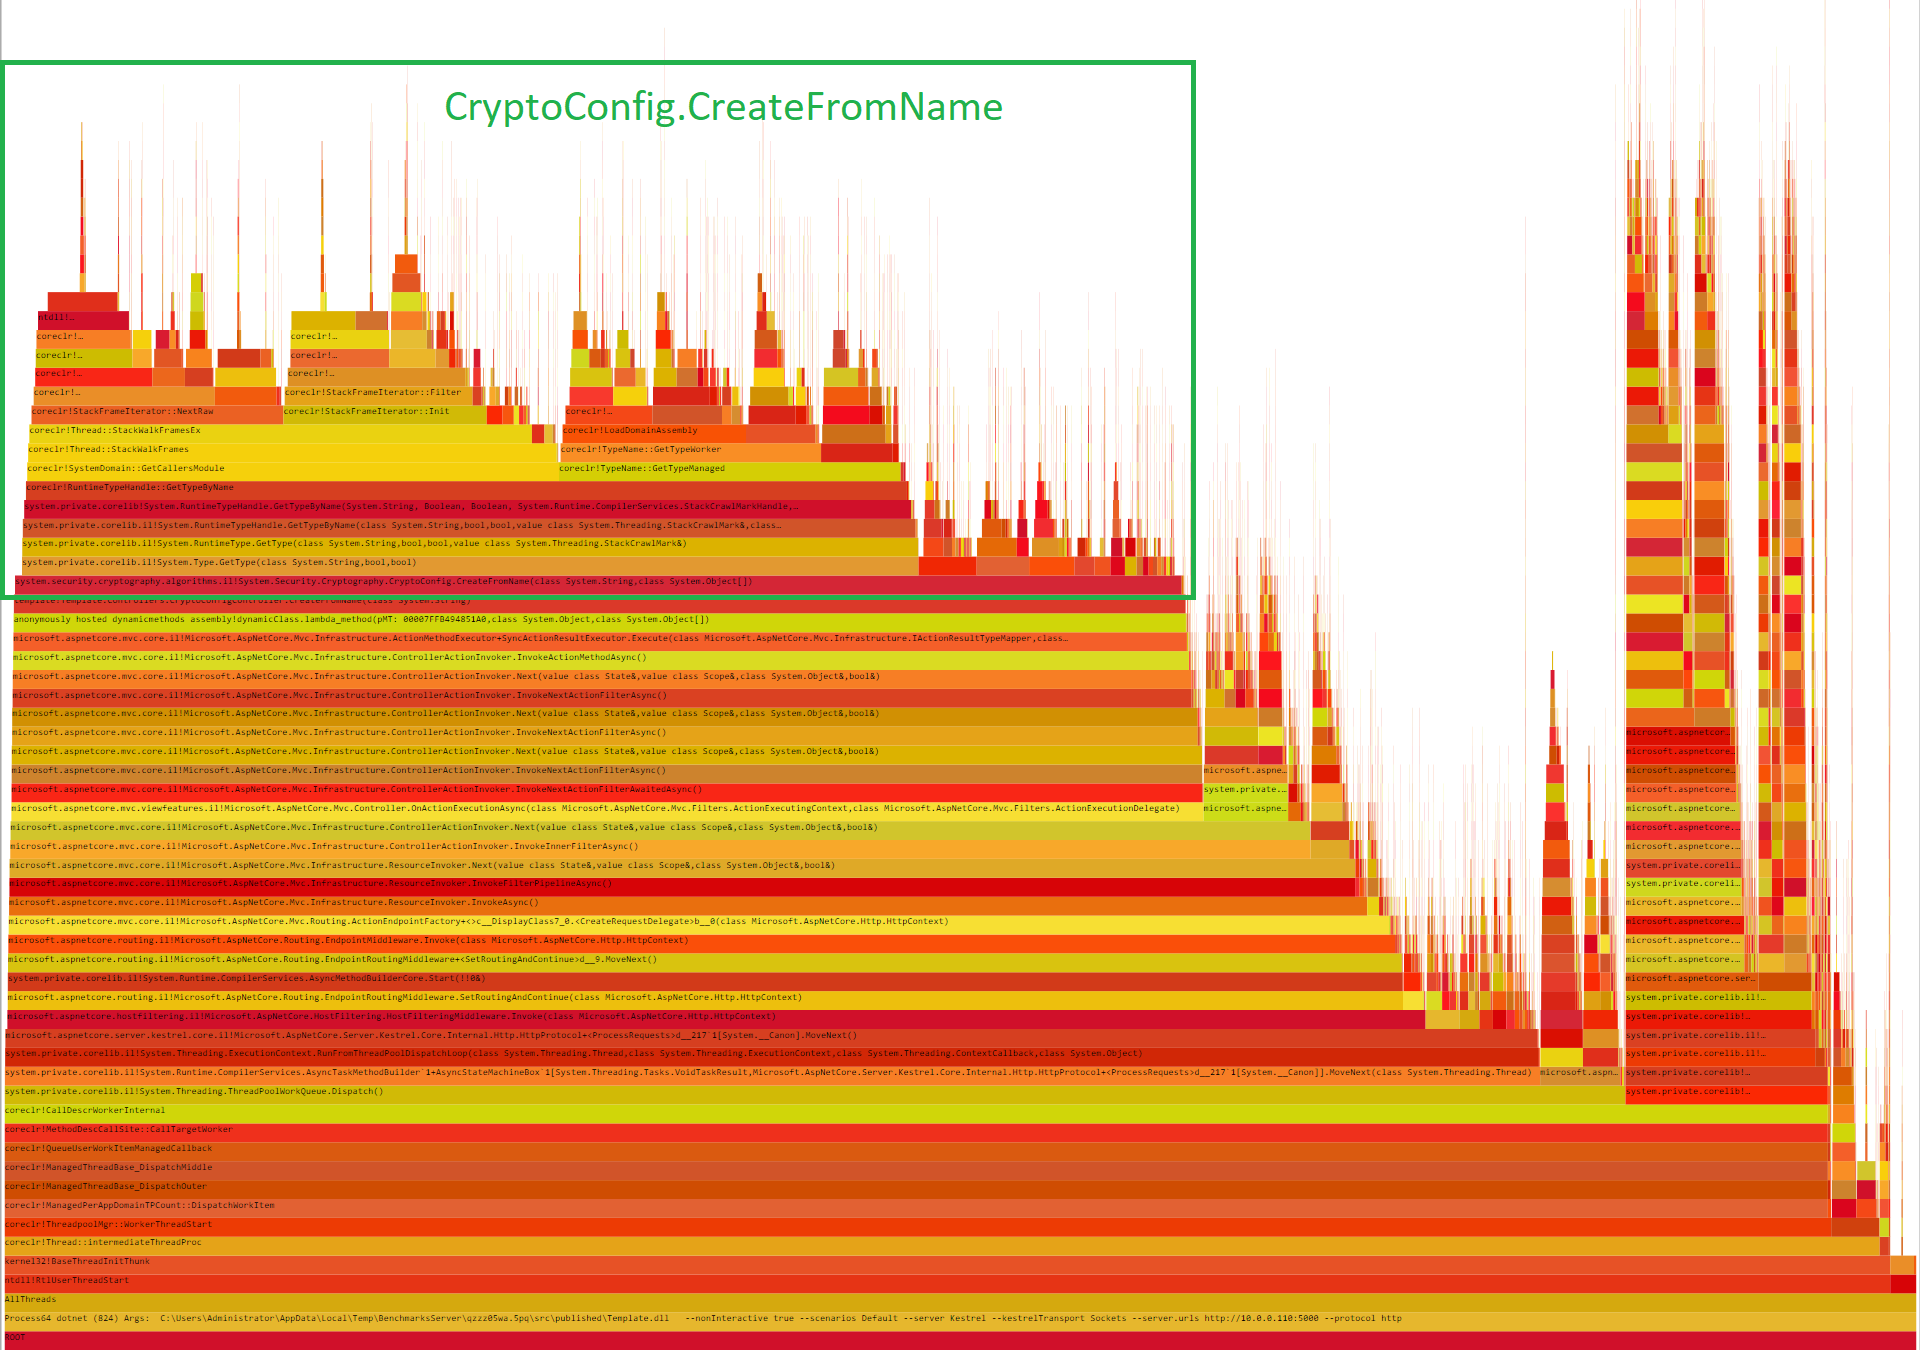
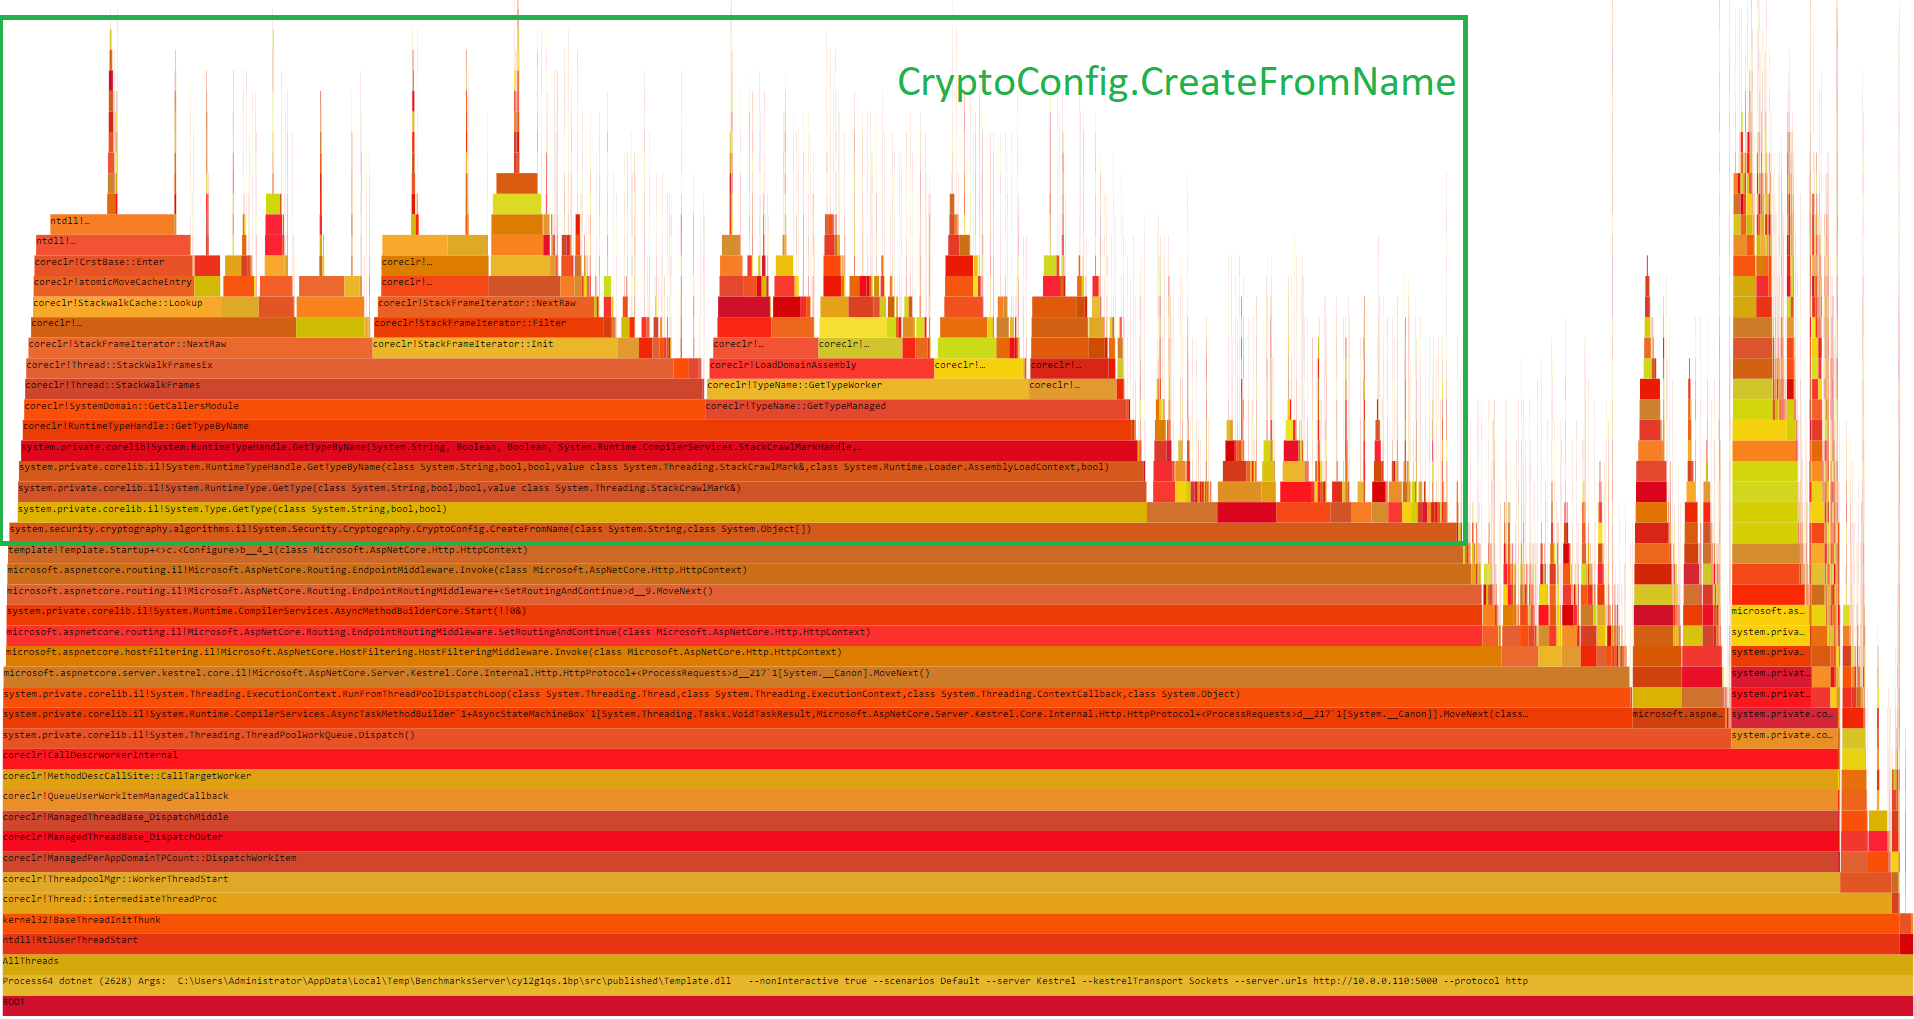
use Middleware instead of more expensive MVC Controllers

diff --git a/src/BenchmarksApps/Samples/Template/Startup.cs b/src/BenchmarksApps/Samples/Template/Startup.cs
@@ -1,41 +1,46 @@
-using Microsoft.AspNetCore.Builder;
+using System;
+using System.Collections.Generic;
+using System.Runtime.CompilerServices;
+using System.Threading.Tasks;
+using Microsoft.AspNetCore.Builder;
 using Microsoft.AspNetCore.Hosting;
+using Microsoft.AspNetCore.Routing;
 using Microsoft.Extensions.Configuration;
-using Microsoft.Extensions.DependencyInjection;
-using Microsoft.Extensions.Hosting;
 
 namespace Template
 {
     public class Startup
     {
-        public Startup(IConfiguration configuration)
-        {
-            Configuration = configuration;
-        }
+        public Startup(IConfiguration configuration) => Configuration = configuration;
 
         public IConfiguration Configuration { get; }
-
-        // This method gets called by the runtime. Use this method to add services to the container.
-        public void ConfigureServices(IServiceCollection services)
-        {
-            services.AddControllers()
-                ;
-        }
 
         // This method gets called by the runtime. Use this method to configure the HTTP request pipeline.
         public void Configure(IApplicationBuilder app, IWebHostEnvironment env)
         {
-            if (env.IsDevelopment())
-            {
-                app.UseDeveloperExceptionPage();
-            }
-
             app.UseRouting();
 
-            app.UseEndpoints(endpoints =>
+            app.UseEndpoints(routeBuilder =>
             {
-                endpoints.MapControllers();
+                routeBuilder.Map("InvariantCultureIgnoreCase/{count}", context =>
+                {
+                    int count = int.Parse((string)context.GetRouteValue("count"));
+
+                    var data = new Dictionary<string, int>(StringComparer.InvariantCultureIgnoreCase);
+                    for (var i = 0; i < count; i++)
+                    {
+                        data.TryAdd("Id_", i);
+                    }
+
+                    Consume(data);
+
+                    return Task.CompletedTask;
+                });
             });
         }
+
+        // avoid possible dead code elimination
+        [MethodImpl(MethodImplOptions.NoInlining)]
+        private static void Consume<T>(in T _) { }
     }
 }

diff --git a/src/BenchmarksApps/Samples/Template/README.md b/src/BenchmarksApps/Samples/Template/README.md
@@ -7,7 +7,7 @@ The goal is to make it very easy to reuse this template app to quickly modify it
 ## Usage
 
 1. Clone this repo.
-2. Extend the template project with a new `Controller` and a method that you want to test.
+2. Modify the template project: replace [existing route](./Startup.cs#L25) with a method that you want to test.
 3. Use [BenchmarksDriver](../../../BenchmarksDriver/README.md) to run the benchmark.
 
 ## Sample investigation
@@ -36,35 +36,49 @@ explorer benchmarks.sln
 
 ### Modify the template
 
-The next step is to extend this template project with a new controller and a method that reproduces the problem:
+The next step is to replace [existing route](./Startup.cs#L25) with a method that reproduces the problem:
 
 ```cs
 using System.Runtime.CompilerServices;
 using System.Security.Cryptography;
-using Microsoft.AspNetCore.Mvc;
+using System.Threading.Tasks;
+using Microsoft.AspNetCore.Builder;
+using Microsoft.AspNetCore.Hosting;
+using Microsoft.AspNetCore.Routing;
+using Microsoft.Extensions.Configuration;
 
-namespace Template.Controllers
+namespace Template
 {
-    [Route("api/[controller]")]
-    [ApiController]
-    public class CryptoConfigController : Controller
+    public class Startup
     {
-        [HttpGet]
-        [Route("CreateFromName/{name}")]
-        public IActionResult CreateFromName(string name)
-        {
-            // perform the operation more than 1 time to make sure it takes more time than the ASP.NET request handling
-            for (int i = 0; i < 16; i++)
-            {
-                Consume(CryptoConfig.CreateFromName(name));
-            }
+        public Startup(IConfiguration configuration) => Configuration = configuration;
 
-            return Ok();
+        public IConfiguration Configuration { get; }
+
+        // This method gets called by the runtime. Use this method to configure the HTTP request pipeline.
+        public void Configure(IApplicationBuilder app, IWebHostEnvironment env)
+        {
+            app.UseRouting();
+
+            app.UseEndpoints(routeBuilder =>
+            {
+                routeBuilder.Map("CryptoConfig/CreateFromName/{name}", context =>
+                {
+                    string name = (string)context.GetRouteValue("name");
+
+                    for (var i = 0; i < 16; i++)
+                    {
+                        Consume(CryptoConfig.CreateFromName(name));
+                    }
+
+                    return Task.CompletedTask;
+                });
+            });
         }
 
-        // make sure the config gets created and avoid possible dead code elimination
+        // avoid possible dead code elimination
         [MethodImpl(MethodImplOptions.NoInlining)]
-        private void Consume<T>(in T _) { }
+        private static void Consume<T>(in T _) { }
     }
 }
 ```
@@ -72,12 +86,12 @@ namespace Template.Controllers
 Now, if we want to benchmark this method using "RSA" argument we need to specify following argument for the [BenchmarksDriver](../../../BenchmarksDriver/README.md):
 
 ```cmd
---path /api/CryptoConfig/CreateFromName/RSA
+--path /CryptoConfig/CreateFromName/RSA
 ```
 
 ### Run the benchmark
 
-Now all we need to run the benchmark is to execute the following command (assuming that we know the benchmark server and client machine address):
+Now we run the benchmark using following command (assuming that we know the benchmark server and client machine address):
 
 ```cmd
 cd src/BenchmarksDriver
@@ -85,20 +99,20 @@ dotnet run -- `
     --server $secret1 --client $secret2 `
     --source ..\BenchmarksApps\Samples\Template\ `
     --project-file Template.csproj `
-    --path /api/CryptoConfig/CreateFromName/RSA `
+    --path /CryptoConfig/CreateFromName/RSA `
 ```
 
 Sample output:
 
 ```log
-RequestsPerSecond:           43,330
-Max CPU (%):                 95
-WorkingSet (MB):             166
-Avg. Latency (ms):           5.91
-Startup (ms):                314
-First Request (ms):          117.24
-Latency (ms):                0.61
-Total Requests:              653,459
+RequestsPerSecond:           48,981
+Max CPU (%):                 93
+WorkingSet (MB):             163
+Avg. Latency (ms):           5.24
+Startup (ms):                194
+First Request (ms):          57.39
+Latency (ms):                0.91
+Total Requests:              738,605
 Duration: (ms)               15,080
 Socket Errors:               0
 Bad Responses:               0
@@ -117,13 +131,12 @@ Sample output:
 ```log
 Post-processing profiler trace, this can take 10s of seconds...
 Trace arguments: BufferSizeMB=1024;CircularMB=1024;clrEvents=JITSymbols;kernelEvents=process+thread+ImageLoad+Profile
-Downloading trace: trace.08-08-15-57-28.RPS-105K.etl.zip
+Downloading trace: trace.08-12-13-17-53.RPS-49K.etl.zip
 ```
 
 ### Identifying the problem
 
 To identify the problem we can open the trace file with [PerfView](https://github.com/Microsoft/perfview) and [analyze it](https://adamsitnik.com/Sample-Perf-Investigation/#analysing-the-trace-file)
-
 
 ![Threads](./docs/img/flamegraph_not_filtered.png)
 
@@ -131,23 +144,22 @@ To identify the problem we can open the trace file with [PerfView](https://githu
 
 ### Validating the fix
 
-To validate the fix, we need to send a new version of given library using the `--output-file` command line arugment. The benchmarking infrastructure is going to publish a self-contained version of provided `Template` app and overwrite existing file with the one that we have provided. Example:
+To validate the fix, we need to send a new version of given library using the `--output-file` command line argument. The benchmarking infrastructure is going to publish a self-contained version of provided `Template` app and overwrite existing file with the one that we have provided. Example:
 
 
 ```cmd
 --output-file "C:\Projects\corefx\artifacts\bin\System.Security.Cryptography.Algorithms\netcoreapp-Windows_NT-Release\System.Security.Cryptography.Algorithms.dll"
 ```
 
-
 ```log
-RequestsPerSecond:           120,801
-Max CPU (%):                 90
-WorkingSet (MB):             166
-Avg. Latency (ms):           2.27
-Startup (ms):                363
-First Request (ms):          92.68
-Latency (ms):                0.64
-Total Requests:              1,824,007
+RequestsPerSecond:           200,049
+Max CPU (%):                 88
+WorkingSet (MB):             164
+Avg. Latency (ms):           4.32
+Startup (ms):                292
+First Request (ms):          65.48
+Latency (ms):                0.7
+Total Requests:              3,020,685
 Duration: (ms)               15,100
 Socket Errors:               0
 Bad Responses:               0
